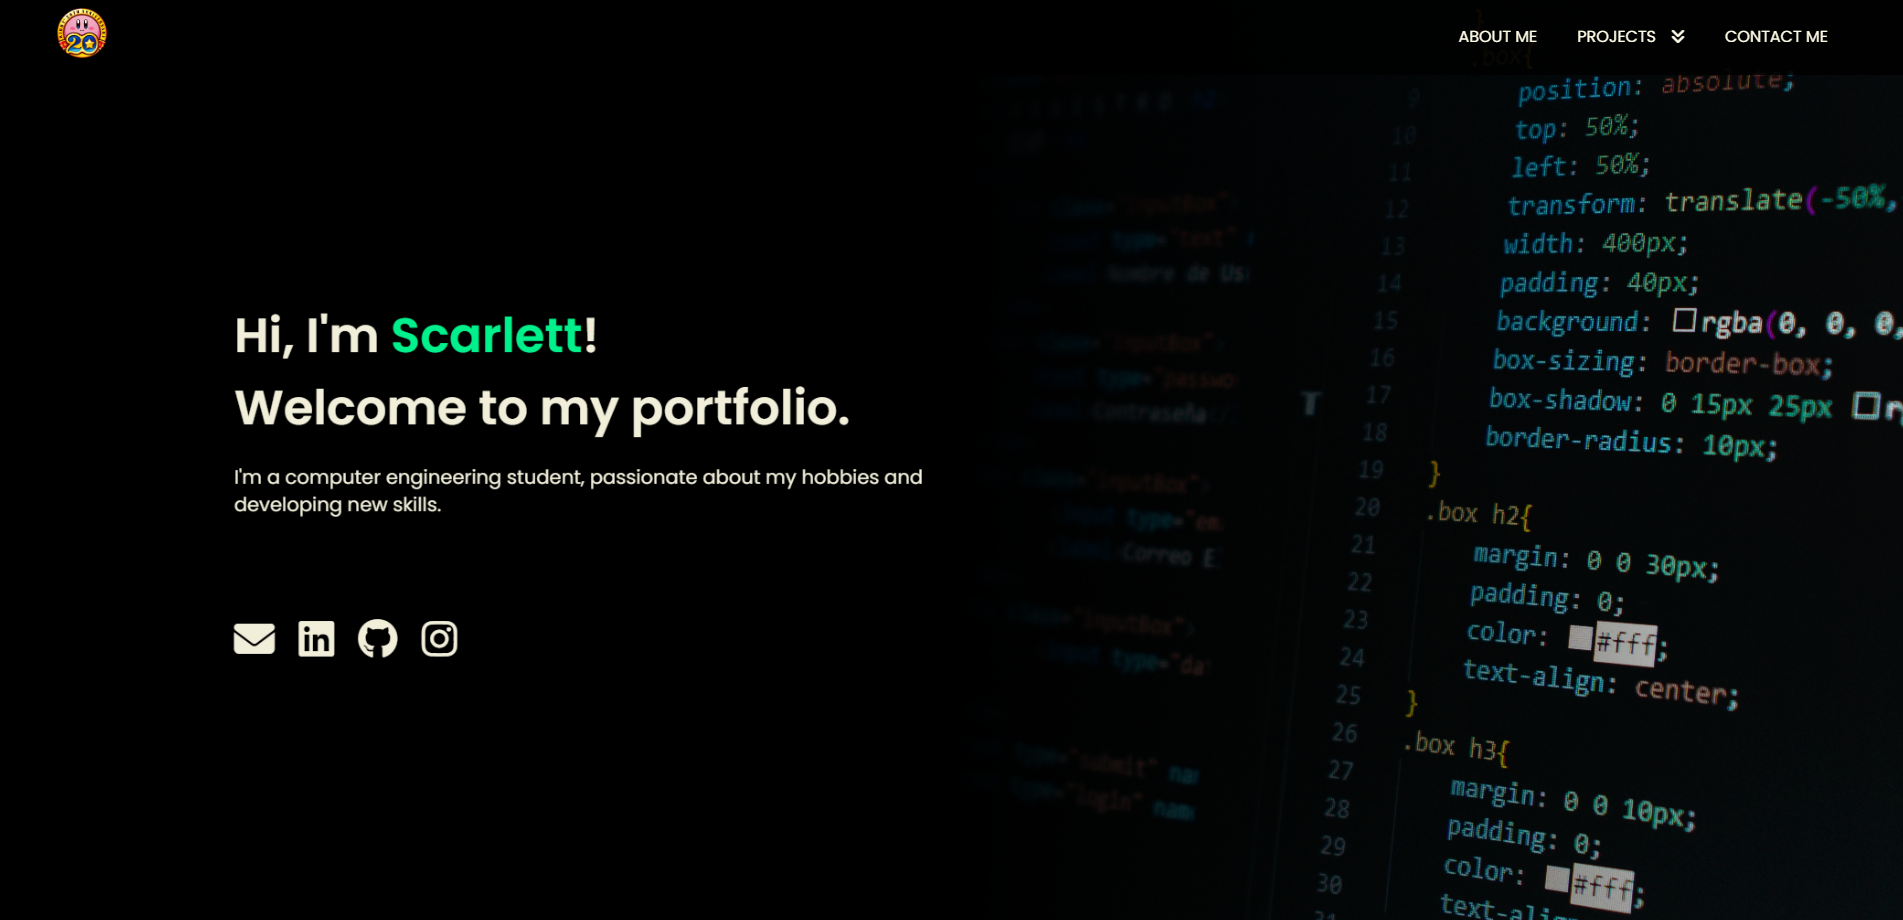
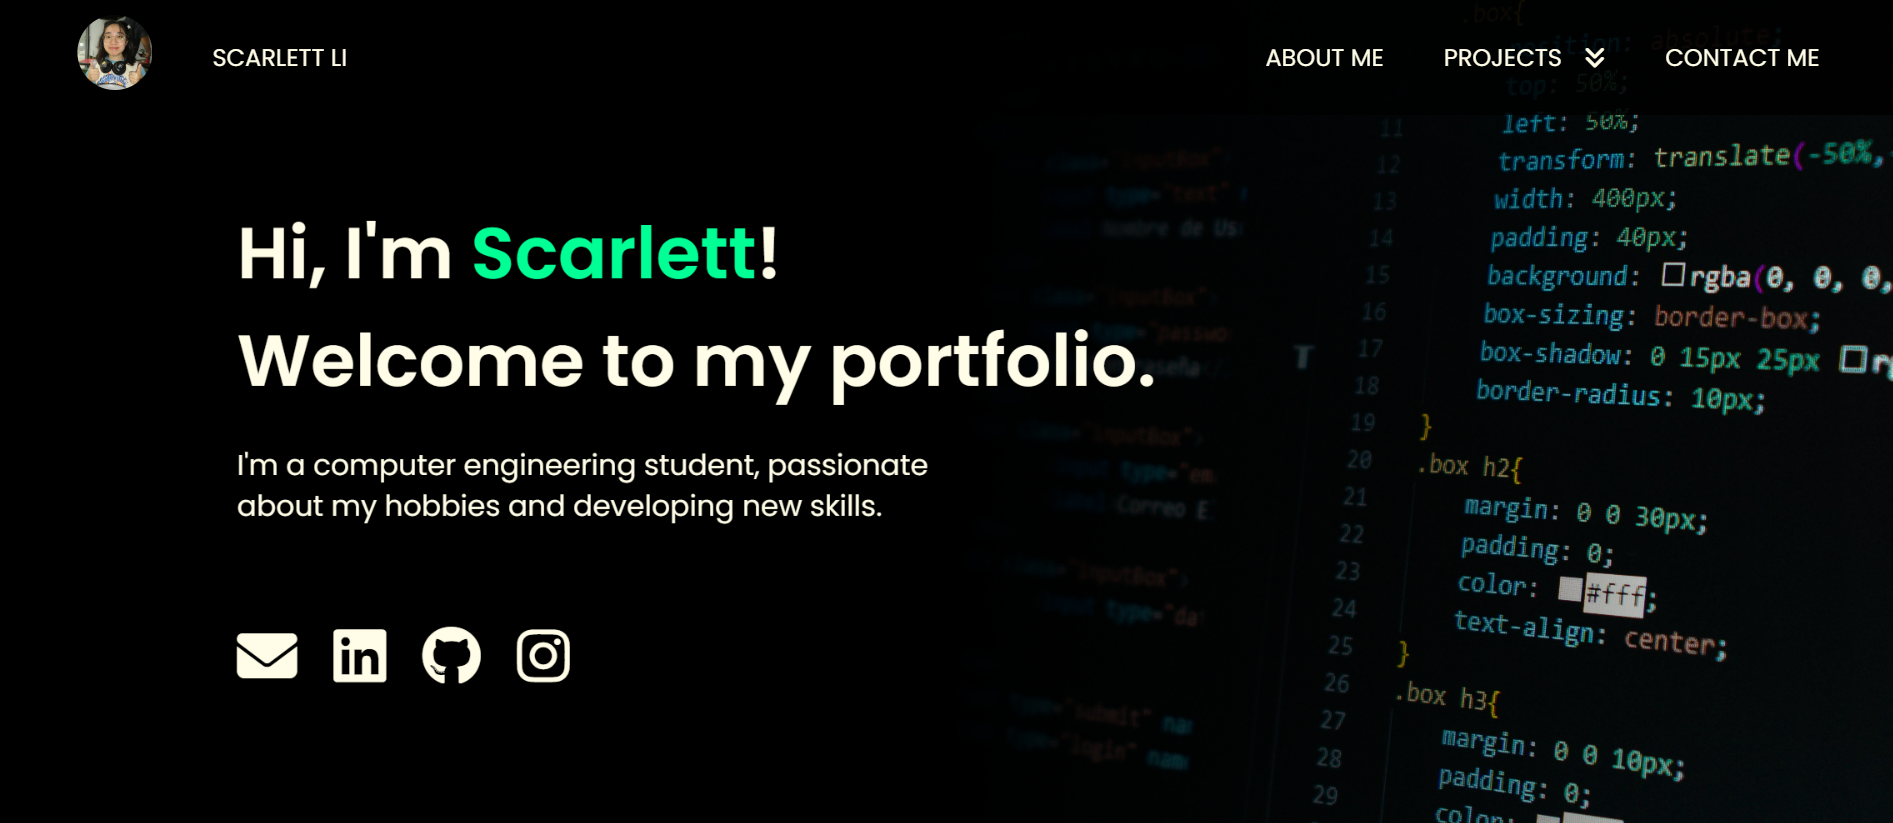
update profile photo and projects

diff --git a/index.html b/index.html
@@ -30,7 +30,7 @@
                 <ul>
                     <li>
                         <a href="#section-home">
-                            <img src="images/kirby20th.png" width="50" height="50">
+                            <img src="images/profile picture.jpg" width="50" height="50">
                         </a>
                     </li>
                     <li>
@@ -50,10 +50,10 @@
                         <div class="dropdown-menu">
                             <ul>
                                 <li>
-                                    <a href="sublinks/simple-banking-application.html">BANK ACCOUNT APPLICATION</a>
+                                    <a href="sublinks/simple-banking-application.html">SIMPLE BANKING APPLICATION</a>
                                 </li>
                                 <li>
-                                    <a href="#">8-BIT CPU</a>
+                                    <a href="#">SIMPLE CPU</a>
                                 </li>
                                 <!--
                                 <li>
@@ -61,7 +61,7 @@
                                 </li>
                                 -->
                                 <li>
-                                    <a href="#">TMU MEC COMPETITION 2024</a>
+                                    <a href="#">TMU MEC 2024</a>
                                 </li>
                                 <li>
                                     <a href="#">PORTFOLIO WEBSITE</a>
@@ -114,7 +114,7 @@
                 <!--Left column (large)-->
                 <div class="left">
                     <div class="profile">
-                        <img src="images/kirby20th.png" width="150" height="150">
+                        <img src="images/profile picture.jpg" width="150" height="150">
                         <div class="profile-body">
                             <h1 class="text-xl">
                                 Scarlett Li<br>
@@ -278,7 +278,7 @@
                         </p>
                     </div>
                     <h5>
-                        <!--<a href="sublinks/simple-bank-application.html">See more details<i class="fa-solid fa-angles-right"></i></a>-->
+                        <a href="sublinks/simple-bank-application.html">See more details<i class="fa-solid fa-angles-right"></i></a>
                     </h5>
                 </div>
             </div>
@@ -315,7 +315,10 @@
                     <div class="project-description">
                         <h4 class="text-right">Contributions:</h4>
                         <p>
-                            The CPU was coded in VHDL using Quartus II. 
+                            The CPU was coded in VHDL using Quartus II. It is comprised of an arithmetic logic unit (ALU) and a control unit. The ALU performs 
+                            a set of arithmetical and logical functions on two 8-bit numbers. The control unit supplies 
+                            an opcode to the ALU which defines the operation. This consists of a finite state machine 
+                            (FSM) and a 3x8 decoder.
                         </p>
                     </div>
                     <h5>
@@ -373,7 +376,7 @@
                     <h2>Personal <span style="color:#00ff94;">portfolio</span> website</h2>
                     <div class="project-description">
                         <h4 class="text-right">Purpose:</h4>
-                        <p></p>
+                        <p>Design a website to highlight skills and projects.</p>
                     </div>
                     <div class="project-description">
                         <h4 class="text-right">Design:</h4>
@@ -415,22 +418,23 @@
     <!--CONTACT PAGE-->
     <section class="contact-page" id="section-contact-me">
         <div class="container">
-            <h1 class="text-xl">Contact me</h1>
+            <h1 class="text-xl"><span style="color:#00ff94;">Contact</span> me</h1>
             <div class="contact-page-grid">
+                <div>
+                    <h2 class="text-md">Let's talk!</h2>
+                    <p>
+                        If you have any questions or would like to reach out, feel free to fill out the form and 
+                        I will get back to you at my earliest availability.
+                    </p>
+                </div>
                 <div class="form">
                     <form action="https://api.web3forms.com/submit" method="POST" class="email-form">
-                        <div class="contact-left-title">
-                            <h2>Send me a message!</h2>
-                        </div>
                         <input type="hidden" name="access_key" value="e252399c-0daa-4f7d-929d-dcc370281f0b">
-                        <input type="text" name="name" placeholder="Your Name" class="contact-inputs" required>
-                        <input type="email" name="email" placeholder="Your Email" class="contact-inputs" required>
+                        <input type="text" name="name" placeholder="Name" class="contact-inputs" required>
+                        <input type="email" name="email" placeholder="Email" class="contact-inputs" required>
                         <textarea name="message" placeholder="Your Message" class="contact-inputs" required></textarea>
                         <button type="submit">Submit<i class="fa-solid fa-arrow-up-from-bracket"></i></button>
                     </form>
-                </div>
-                <div class="contact-page-heading">
-                    <h2 class="text-md">Let's talk</h2>
                 </div>
             </div>
         </div>
@@ -440,7 +444,6 @@
     <section class="footer">
         <div class="container">
             <hr>
-            <h4>Scarlett Li</h4>
             <div class="footer-grid">
                 <div class="contact-me">
                     <ul>

diff --git a/sublinks/simple-bank-application.html b/sublinks/simple-bank-application.html
@@ -30,7 +30,7 @@
                 <ul>
                     <li>
                         <a href="../index.html#section-home">
-                            <img src="../images/kirby20th.png" width="50" height="50">
+                            <img src="../images/profile picture.jpg" width="50" height="50">
                         </a>
                     </li>
                     <li>
@@ -50,19 +50,21 @@
                         <div class="dropdown-menu">
                             <ul>
                                 <li>
-                                    <a href="#">BANK APPLICATION</a>
+                                    <a href="#">SIMPLE BANKING APPLICATION</a>
                                 </li>
                                 <li>
-                                    <a href="#">8-BIT CPU</a>
+                                    <a href="#">SIMPLE CPU</a>
                                 </li>
+                                <!--
                                 <li>
                                     <a href="#">HOMELAB</a>
                                 </li>
+                                -->
                                 <li>
-                                    <a href="#">PORTFOLIO WEBSITE</a>
+                                    <a href="#">TMU MEC 2024</a>
                                 </li>
                                 <li>
-                                    <a href="#">TMU MEC COMPETITION 2024</a>
+                                    <a href="#">PORTFOLIO WEBSITE</a>
                                 </li>
                             </ul>
                         </div>
@@ -74,6 +76,7 @@
             </div>
         </div>
     </nav>
+
 
     <div class="simple-banking-application">
         <div class="container-full">

diff --git a/css/style.css b/css/style.css
@@ -103,6 +103,10 @@ ul {
     margin-left: 15px;
 }
 
+.navbar img {
+    clip-path: circle(50%);
+}
+
 /*Dropdown for projects list*/
 .navbar .main-menu ul li {
     position: relative;
@@ -157,7 +161,7 @@ ul {
 
 .home .home-text {
     width: 50%;
-    margin-bottom: 100px;
+    margin-bottom: 7%;
 }
 
 .home i {
@@ -216,6 +220,10 @@ ul {
     display: block;
 }
 
+.about-me img {
+    clip-path: circle(50%);
+}
+
 .about-me .profile {
     display: flex;
     align-items: center;
@@ -258,7 +266,11 @@ ul {
     display: grid;
     grid-template-columns: 2fr 3fr;
     grid-column-gap: 30px;
-    padding: 40px 0;
+    padding: 10px 0 80px 0;
+}
+
+.projects .project-list:last-child {
+    padding: 0;
 }
 
 .projects .project-description {
@@ -337,7 +349,7 @@ ul {
 
 .contact-page .contact-page-grid {
     display: grid;
-    grid-template-columns: 2fr 3fr;
+    grid-template-columns: 1fr 1fr;
     grid-column-gap: 40px;
 }
 
